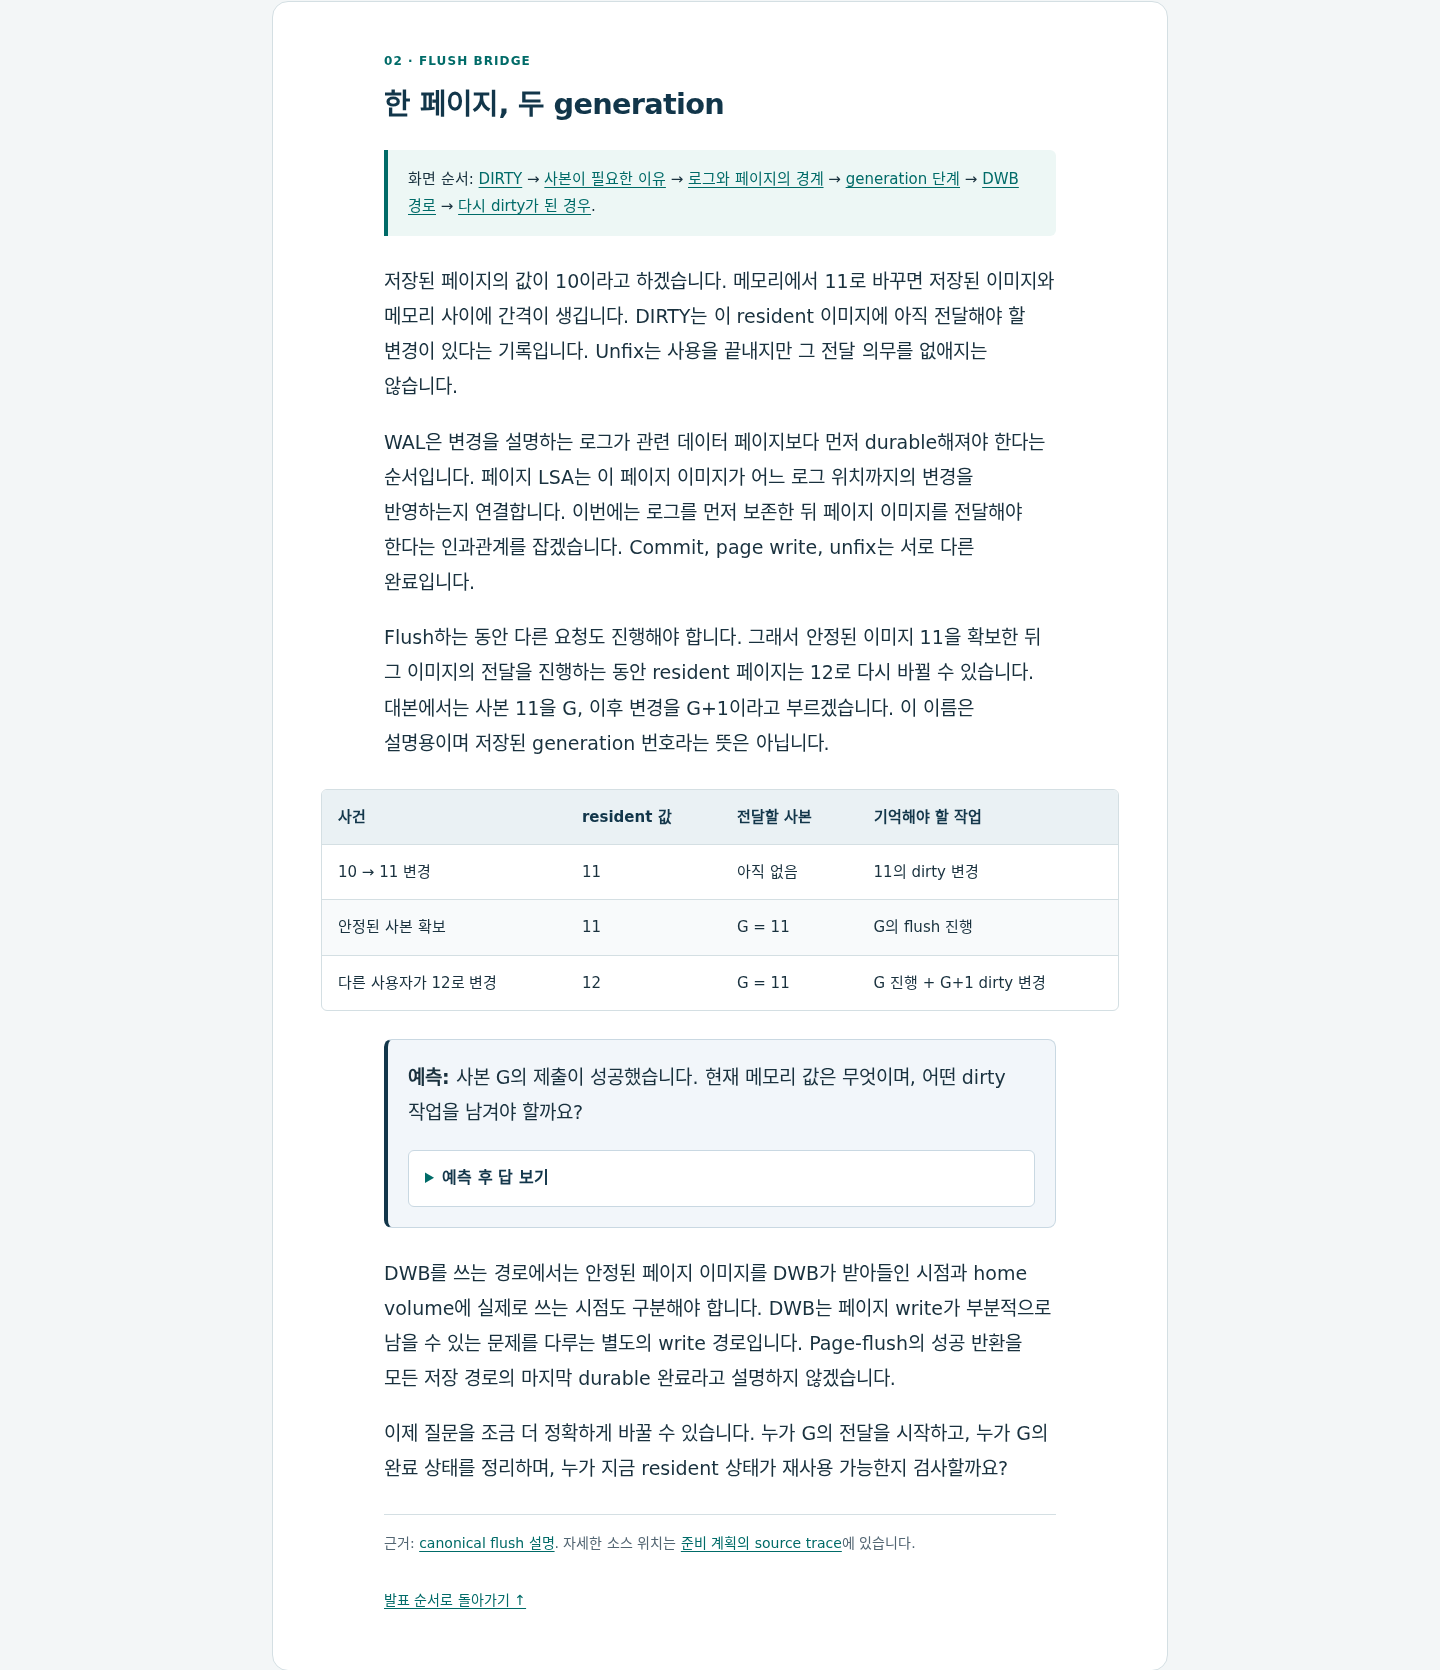
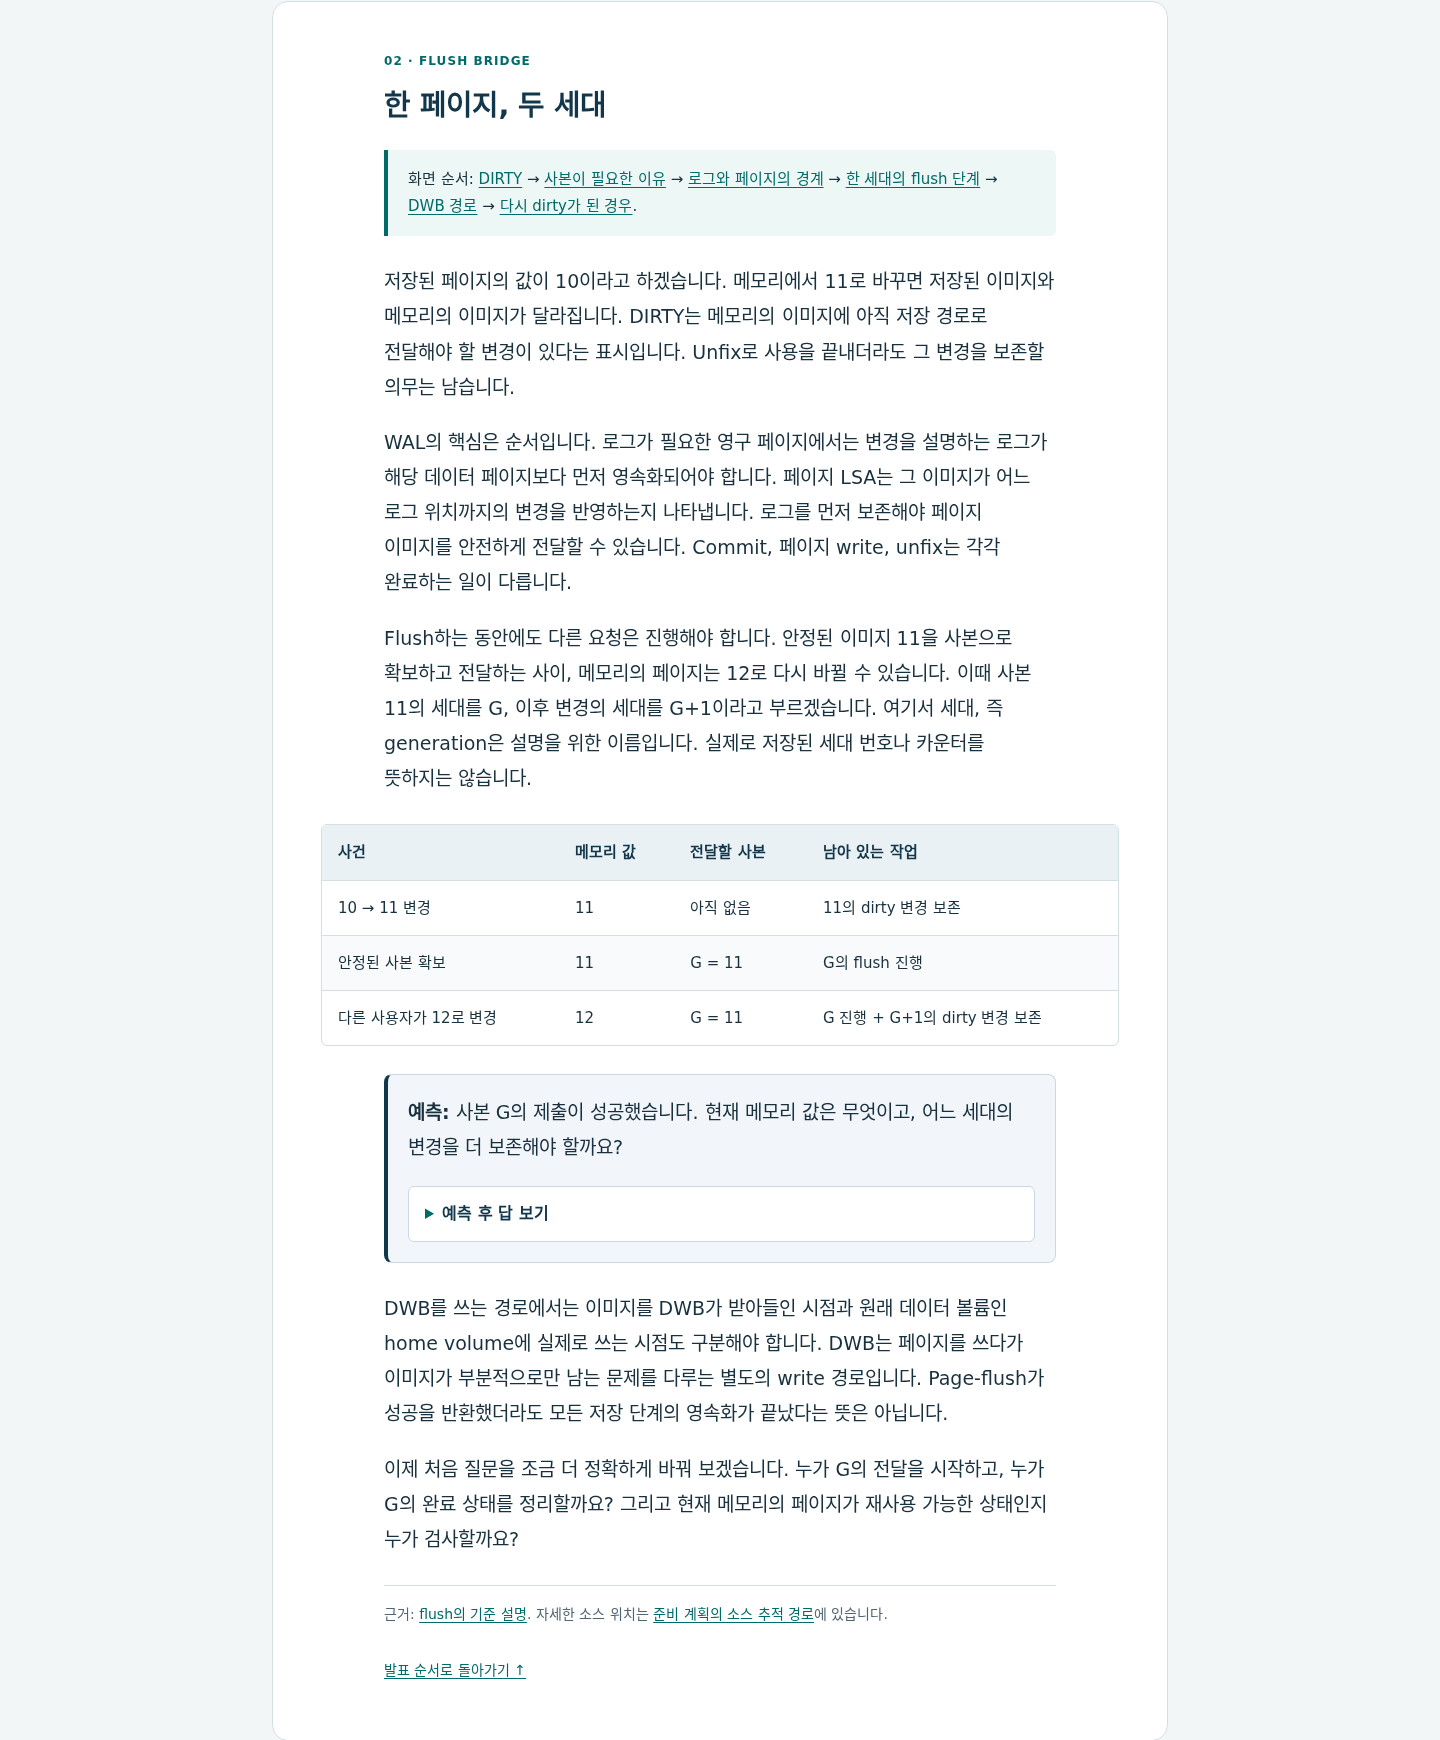
docs: record final-session polish verification

diff --git a/docs/final-session-preparation.md b/docs/final-session-preparation.md
@@ -4,6 +4,8 @@ This is the **third and final page-buffer seminar session**, lasting **n hours**
 
 The [delivery record](../README.md#seminar-delivery) owns session status. The [Korean spoken script](../my-presentation-script-session-3.html) is the presenter companion for this session. The earlier script remains a reference for the completed material.
 
+The [agent editorial feedback](../feedback.md) and [Socratic discussion route](../socratic-questions.md) are author-only companions. Use the feedback for revision review and select questions from the discussion route for rehearsal or live discussion; keep both reports outside participant navigation and the Maintainer Guide topology.
+
 ## What participants should be able to explain at the end
 
 - Follow one dirty CUBRID page through generation capture, WAL gating, submission, BCB completion, and possible direct-victim assignment.
@@ -91,3 +93,20 @@ If time is tight, shorten raw source reading and factory arithmetic first. Keep 
 - The required Maintainer Guide aggregate passes: 43 pages, 71 displayed SVGs, zero orphaned SVGs, 114 HTTP resources, and 43 live-DOM pages.
 - The bilingual aggregate retains its existing review-only failures: 58 missing human Korean review receipts and 78 stale fingerprints. Existing audience HTML and its manifest are unchanged. This preparation does not supply those receipts or human acceptance of the new spoken script.
 - Source reasoning and constructed schedules were reviewed; no new engine runtime experiment, observed participant session, or cross-engine benchmark was performed.
+
+## Polish checks (2026-10-12)
+
[1 lines of base64/hex data omitted]
+
+Three agents completed sequential write phases: presenter CSS (`328ee39`), Korean editing (`d2181f5`, followed by the caller clarification in `ecf60bb`), and the question route (`00c509c`). The dedicated stylesheet narrows spoken prose to 672 px on desktop and preserves readable table columns through keyboard-accessible scrolling on mobile. The script's 12 blocks now use consistent professional Korean and explicit causal transitions. The editorial report records five source-backed clarifications; the question route has 24 main questions and 24 optional follow-ups with fresh constructed premises and exact script anchors.
+
+The question author's transfer review found that local completion was described too narrowly as page-flush work. The final script identifies the submitting thread as the owner when any post-flush handoff condition fails, matching the pinned common-helper branch. The report records this correction separately from language edits. No engine code was changed.
+
+- Copyparty Markdown source checks pass for all six changed Markdown files. Relative files and fragments resolve, and all 28 distinct pinned GitHub source-file/line targets resolve against the local pinned repositories. The question route covers all 12 blocks, the closing section, and both final-case anchors.
+- Served script and stylesheet bytes match the local files. Headless Chromium checks pass at 1440, 390, and 320 px with JavaScript disabled: 12 visible blocks, 14 initially closed answers, keyboard open/close for every answer, all 12 section links, the skip link, keyboard scrolling for all five narrow tables, and no document overflow or relevant runtime error.
+- All 66 EN/KO script HTML fragment destinations render against exact served files, including the clean-unfix source route. Ten representative presentation-mode destinations pass. All six changed Markdown files render without relevant errors.
+- The Maintainer Guide aggregate passes: 43 source pages, 71 displayed SVGs, zero orphaned SVGs, 114 HTTP resources, and 43 live-DOM pages.
+- The full bilingual aggregate's diagnostic set exactly matches the pre-polish baseline: 58 missing human Korean review receipts and 78 stale fingerprints, with no new failure. Its served gate separately passes 295 HTTP resources and 117 live-DOM pages. Human spoken-language acceptance of this script remains open; the two agent-authored reports do not supply a human review receipt.
+- The orchestrator inspected the committed CSS, editorial, and question changes against the repository rules and this session's scope. `git diff --check` passes. Source scenarios remain constructed examples; no engine runtime experiment, participant observation, or cross-engine benchmark was added.
+
+The final screenshots were refreshed after Korean editing and inspected. Compare the complete flush-generation section at [desktop before](session-3-polish/desktop-before.png) / [desktop final](session-3-polish/desktop-final.png) and [mobile before](session-3-polish/mobile-before.png) / [mobile final](session-3-polish/mobile-final.png). The [desktop daemon view](session-3-polish/desktop-daemons-final.png) and [mobile daemon view](session-3-polish/mobile-daemons-final.png) provide additional typography and table evidence. The CSS agent also verified that Chromium 151 print output includes initially closed answers; that print check belongs to the CSS phase, before the later wording revisions.
